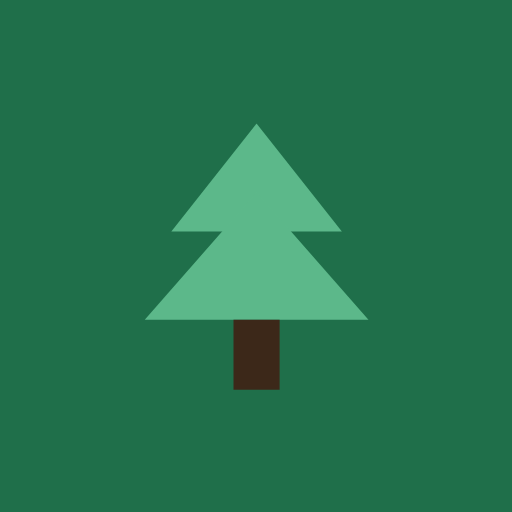
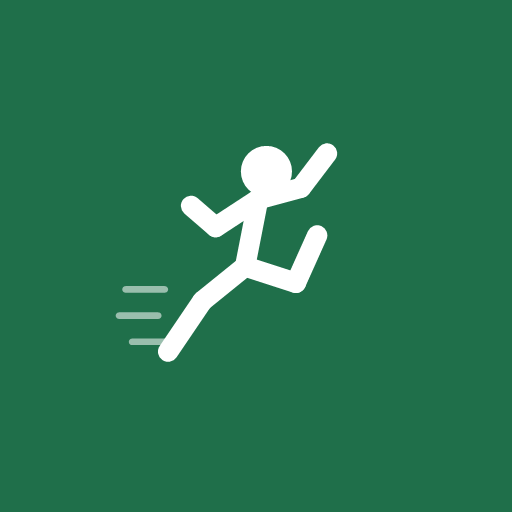
Remplace l'iconographie forêt par une identité running
L'app s'appelle Forest en reference a Forrest Gump, pas a la
foret. Nouvelle icone : coureur en sprint avec lignes de vitesse
(remplace l'arbre). Nouvelle illustration d'accueil : piste avec
fanions d'intervalle, lignes de vitesse, plus aucun element nature/
foret. Bump du cache du service worker (v12).

Changed region(s): [[0.2188, 0.25, 0.7188, 0.7812]]

diff --git a/service-worker.js b/service-worker.js
@@ -1,4 +1,4 @@
-const CACHE_NAME = "forest-cache-v11";
+const CACHE_NAME = "forest-cache-v12";
 const APP_SHELL = [
   "./",
   "./index.html",
